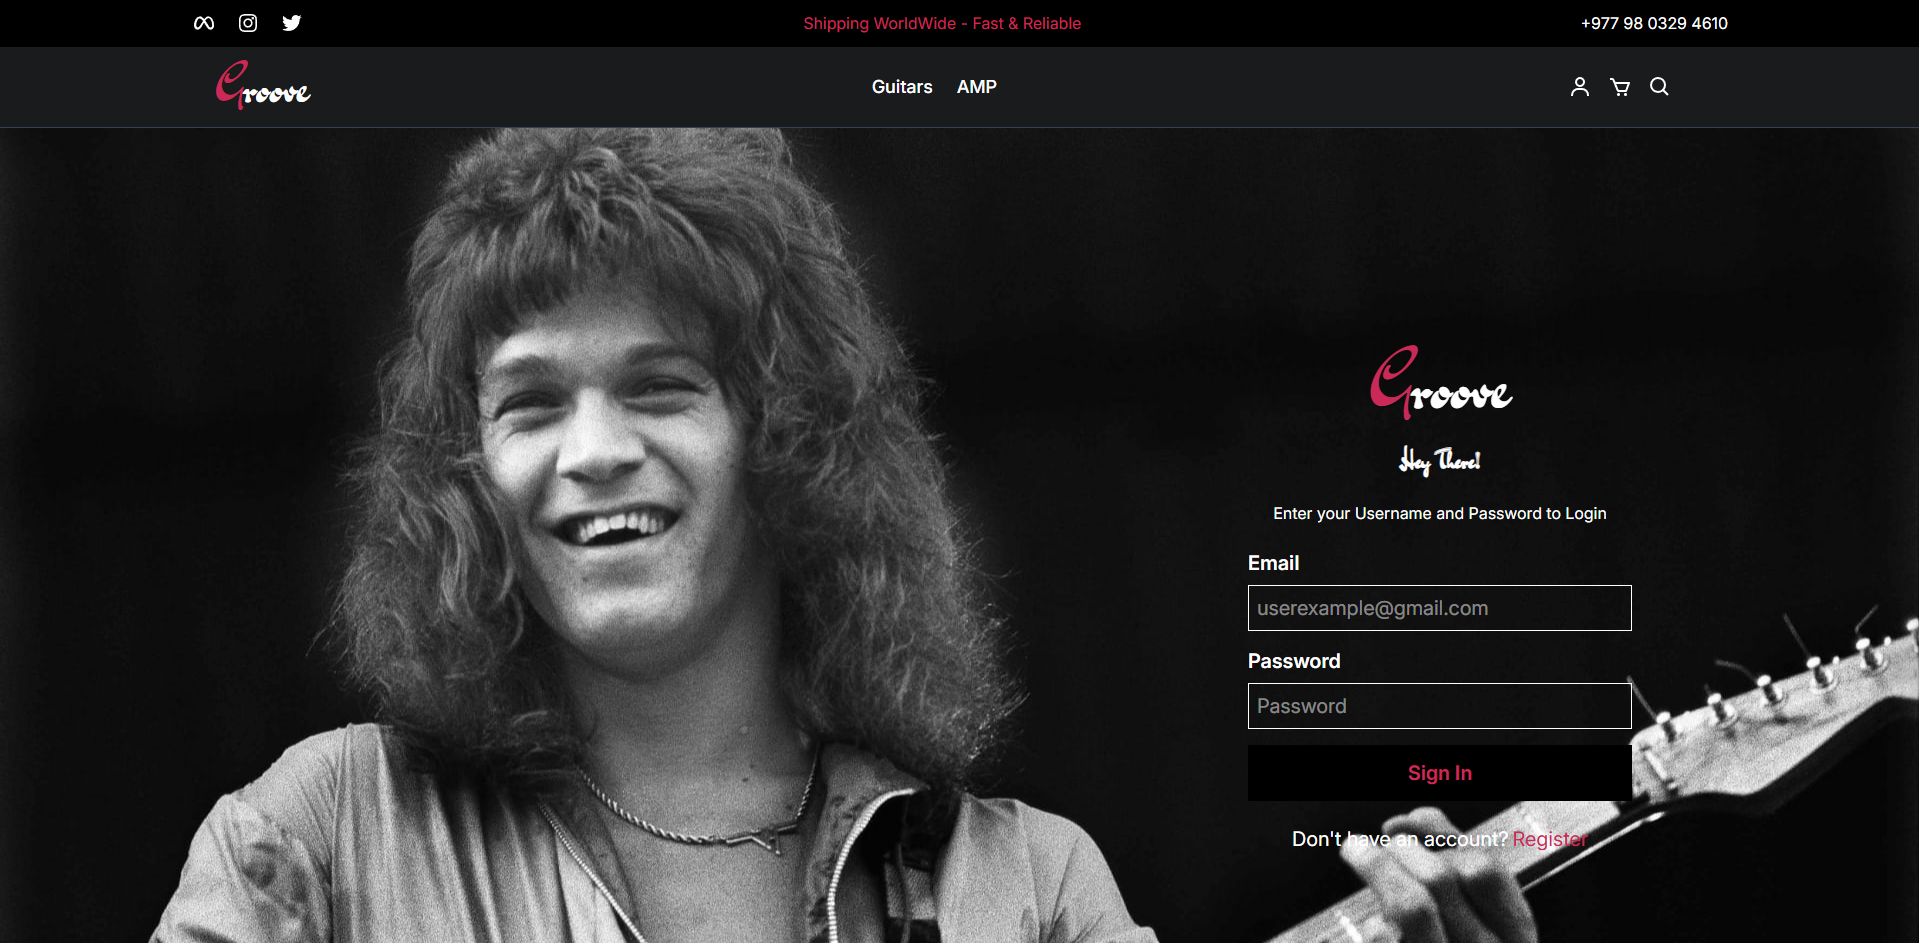
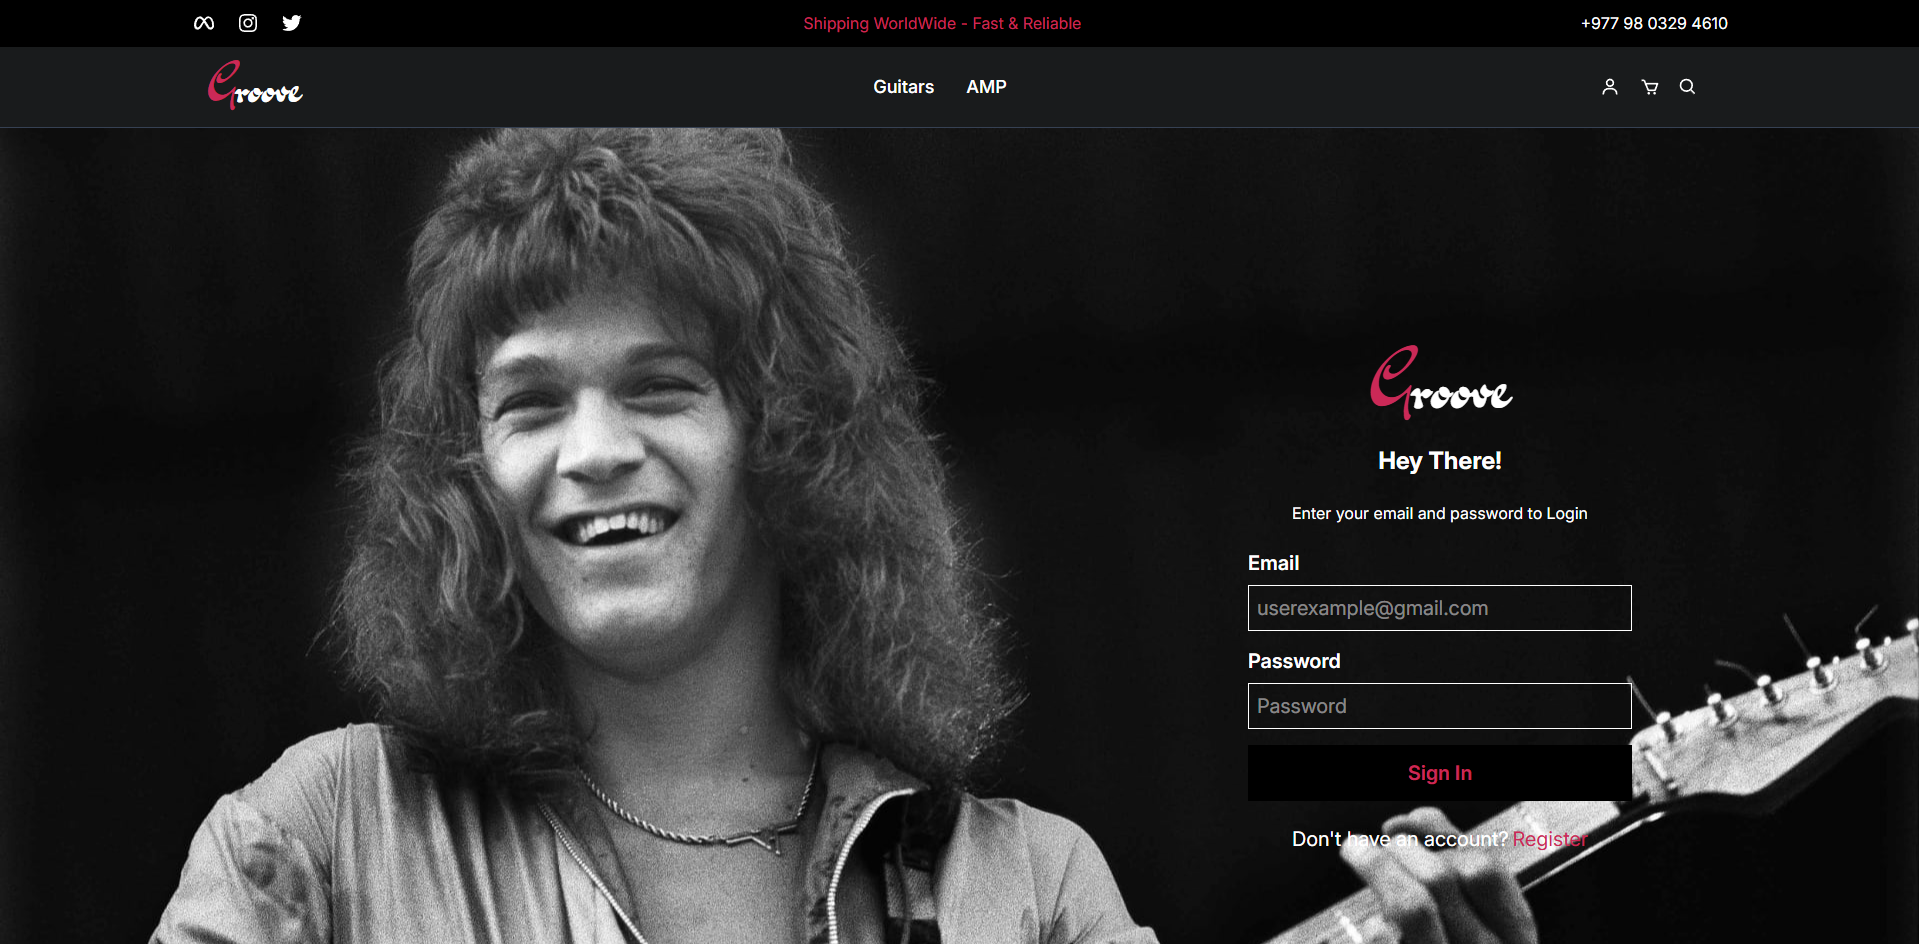
Some minor typo fixed

diff --git a/Frontend/src/components/Pages/Login.jsx b/Frontend/src/components/Pages/Login.jsx
@@ -59,7 +59,7 @@ const Login = () => {
                         </h2>
                     </div>
                     
-                    <h2 className="navbarText text-2xl font-bold text-center mb-6 text-white">
+                    <h2 className="text-2xl font-bold text-center mb-6 text-white">
                         Hey There!
                     </h2>
                     
